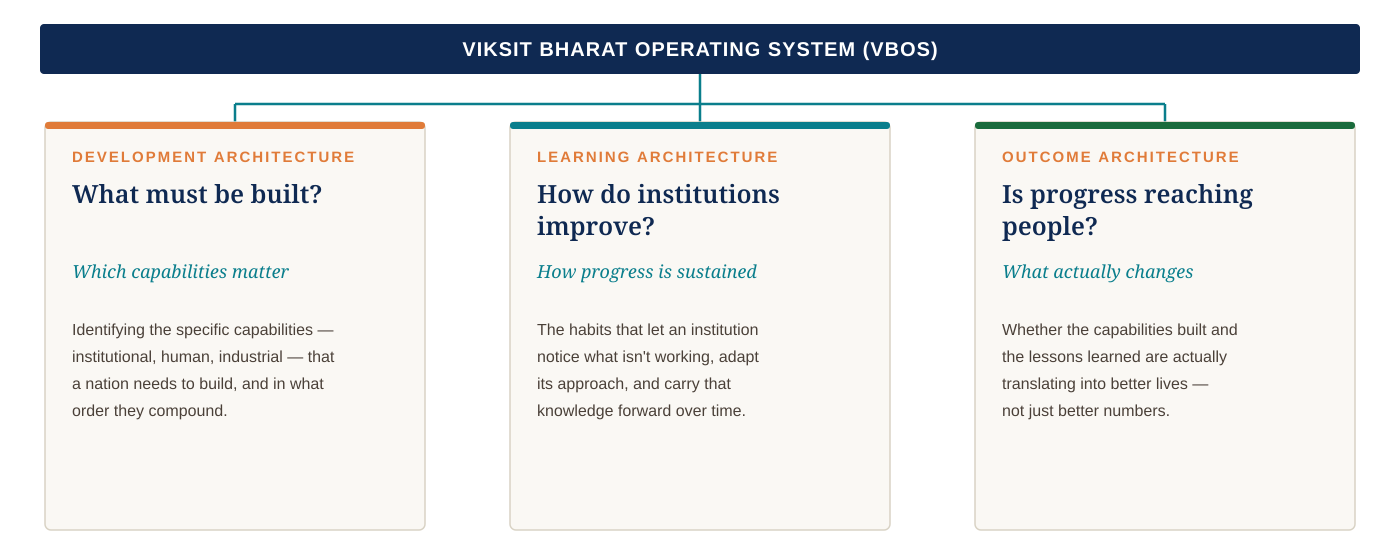
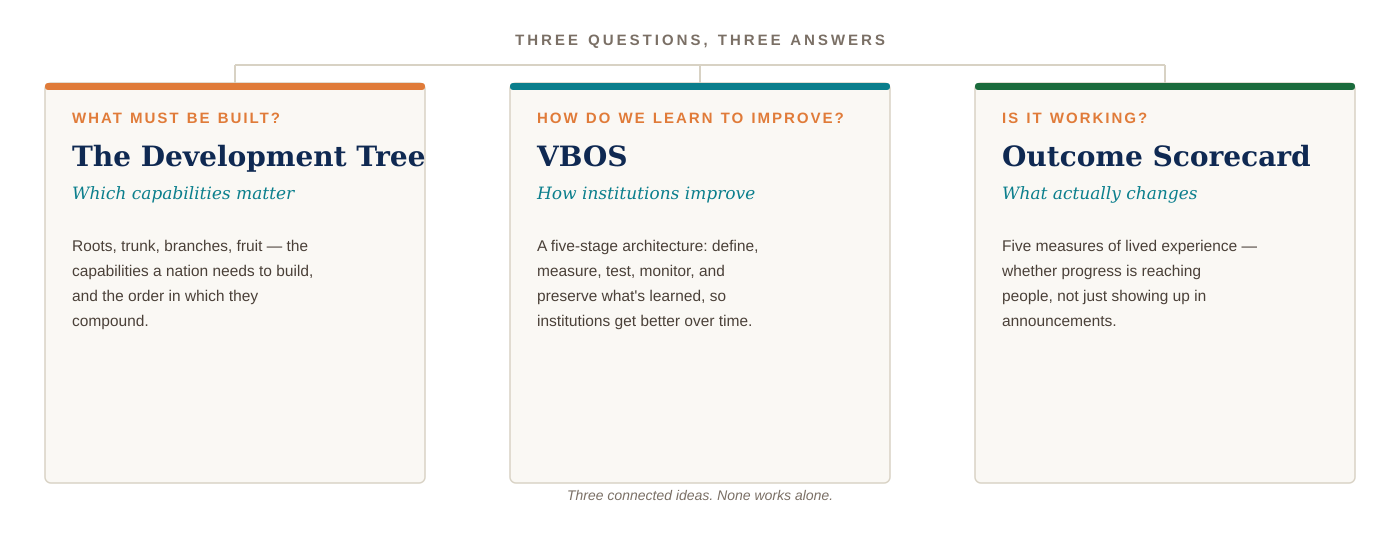
Redefine VBOS as the five-stage learning mechanism specifically, not an umbrella over three architectures. Development Tree, VBOS, and Outcome Scorecard are now three connected siblings answering three questions (what to build / how to learn / how to know it's working), each with its own standalone 

diff --git a/vbos/index.html b/vbos/index.html
@@ -327,25 +327,25 @@
 
     <section>
       <h2 class="section-title">The Central Idea</h2>
-      <p>VBOS rests on three architectures, working together:</p>
+      <p>VBOS is one of three connected ideas, each answering a different question:</p>
       <ul class="architecture-list">
-        <li><b>Development Architecture</b> — what capabilities are worth building.</li>
-        <li><b>Learning Architecture</b> — how institutions learn and improve as they build them.</li>
-        <li><b>Outcome Architecture</b> — how we know whether progress is reaching people.</li>
+        <li><b>The Development Tree</b> — what capabilities are worth building.</li>
+        <li><b>VBOS</b> — how institutions learn and improve as they build them.</li>
+        <li><b>The Outcome Scorecard</b> — how we know whether progress is reaching people.</li>
       </ul>
 
       <div class="diagram-wrap">
-        <img src="/assets/vbos_diagram.png" alt="VBOS: Development Architecture, Learning Architecture, and Outcome Architecture" />
-        <p class="diagram-caption">VBOS as one system: three architectures, working together.</p>
+        <img src="/assets/vbos_diagram.png" alt="Three connected ideas: the Development Tree, VBOS, and the Outcome Scorecard" />
+        <p class="diagram-caption">Three questions, three answers, working together.</p>
       </div>
 
-      <p>None of the three works alone. A country can identify the right capabilities and still lose them without a way to learn. It can build strong feedback loops and still miss whether people's lives are actually improving. VBOS treats all three as one connected system, not three separate efforts.</p>
+      <p>None of the three works alone. A country can identify the right capabilities and still lose them without a way to learn. It can build strong feedback loops and still miss whether people's lives are actually improving. Development is what happens when all three work together, not three separate efforts.</p>
       <p>Without an operating system, development stays a collection of schemes. With one, it becomes a system built to learn.</p>
     </section>
 
     <section>
-      <h2 class="section-title">The Learning Architecture, in Five Stages</h2>
-      <p>Learning Architecture is not abstract. It has a shape: five stages that recur in any institution capable of improving over time.</p>
+      <h2 class="section-title">VBOS, in Five Stages</h2>
+      <p>VBOS is not abstract. It has a shape: five stages that recur in any institution capable of improving over time.</p>
       <table class="stages-table">
         <tr><th>Stage</th><th>Core Question</th></tr>
         <tr><td class="stage-name">1. Problem Definition</td><td>Are we solving the right problem?</td></tr>
@@ -354,7 +354,7 @@
         <tr><td class="stage-name">4. In-Flight Monitoring at Scale</td><td>What are we learning while implementation is underway?</td></tr>
         <tr><td class="stage-name">5. Institutional Memory</td><td>What survives after the programme, and its leaders, change?</td></tr>
       </table>
-      <p>Each stage is being developed further through field research and pilot work. The full methodology is not yet public. What's here is enough to show that VBOS has real, specific shape, not just three architectures in the abstract.</p>
+      <p>Each stage is being developed further through field research and pilot work. The full methodology is not yet public. What's here is enough to show that VBOS has real, specific shape, not just an idea in the abstract.</p>
     </section>
 
     <section>
@@ -386,7 +386,7 @@
 
     <section>
       <h2 class="section-title">The National Outcome Scorecard</h2>
-      <p>The Learning Architecture asks whether institutions are getting better at what they do. The Outcome Architecture asks a different question: is development actually producing better lived outcomes, for the people it's meant to reach.</p>
+      <p>VBOS asks whether institutions are getting better at what they do. The Outcome Scorecard asks a different question: is development actually producing better lived outcomes, for the people it's meant to reach.</p>
       <p>The scorecard looks across five dimensions:</p>
       <ul class="architecture-list">
         <li><b>Job Quality</b> — the strength of the pathway from credential to career.</li>
